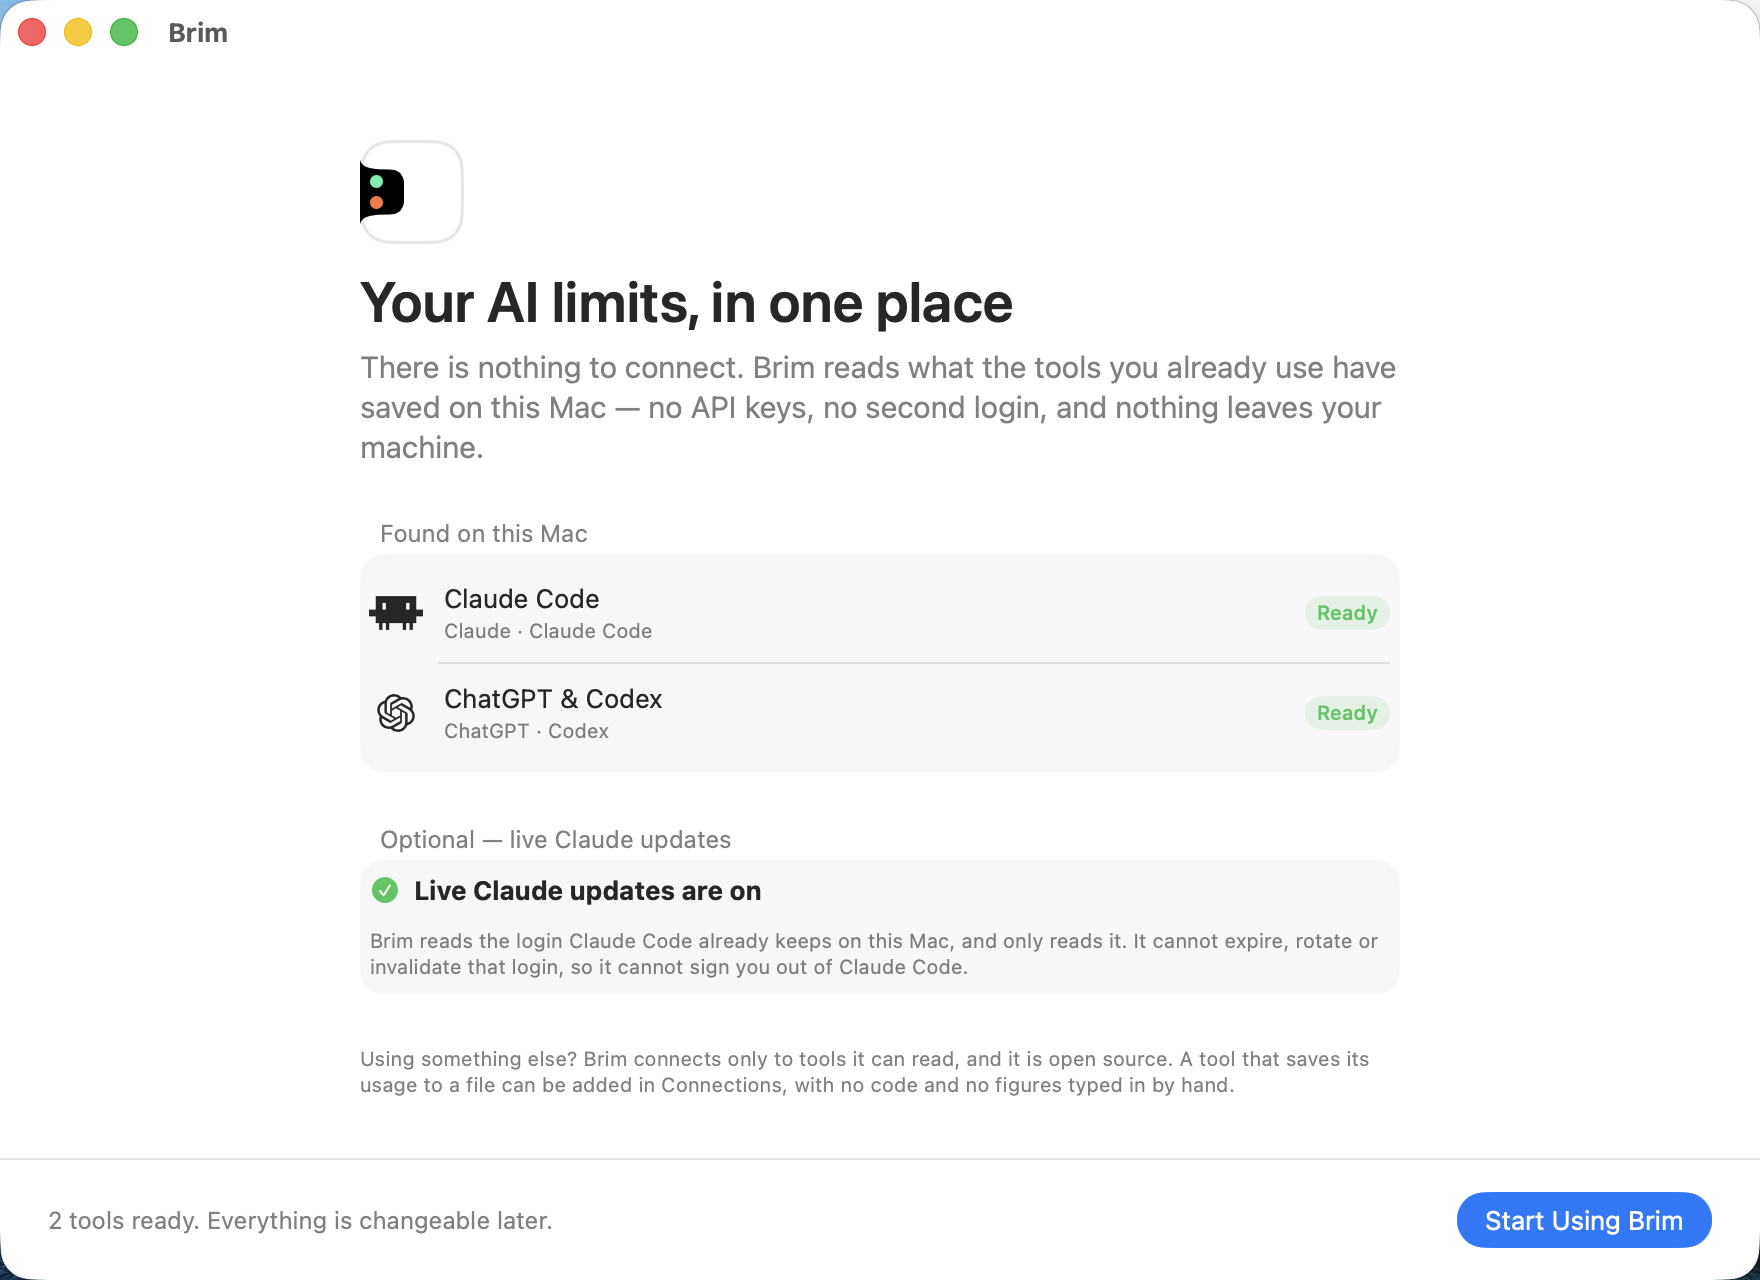
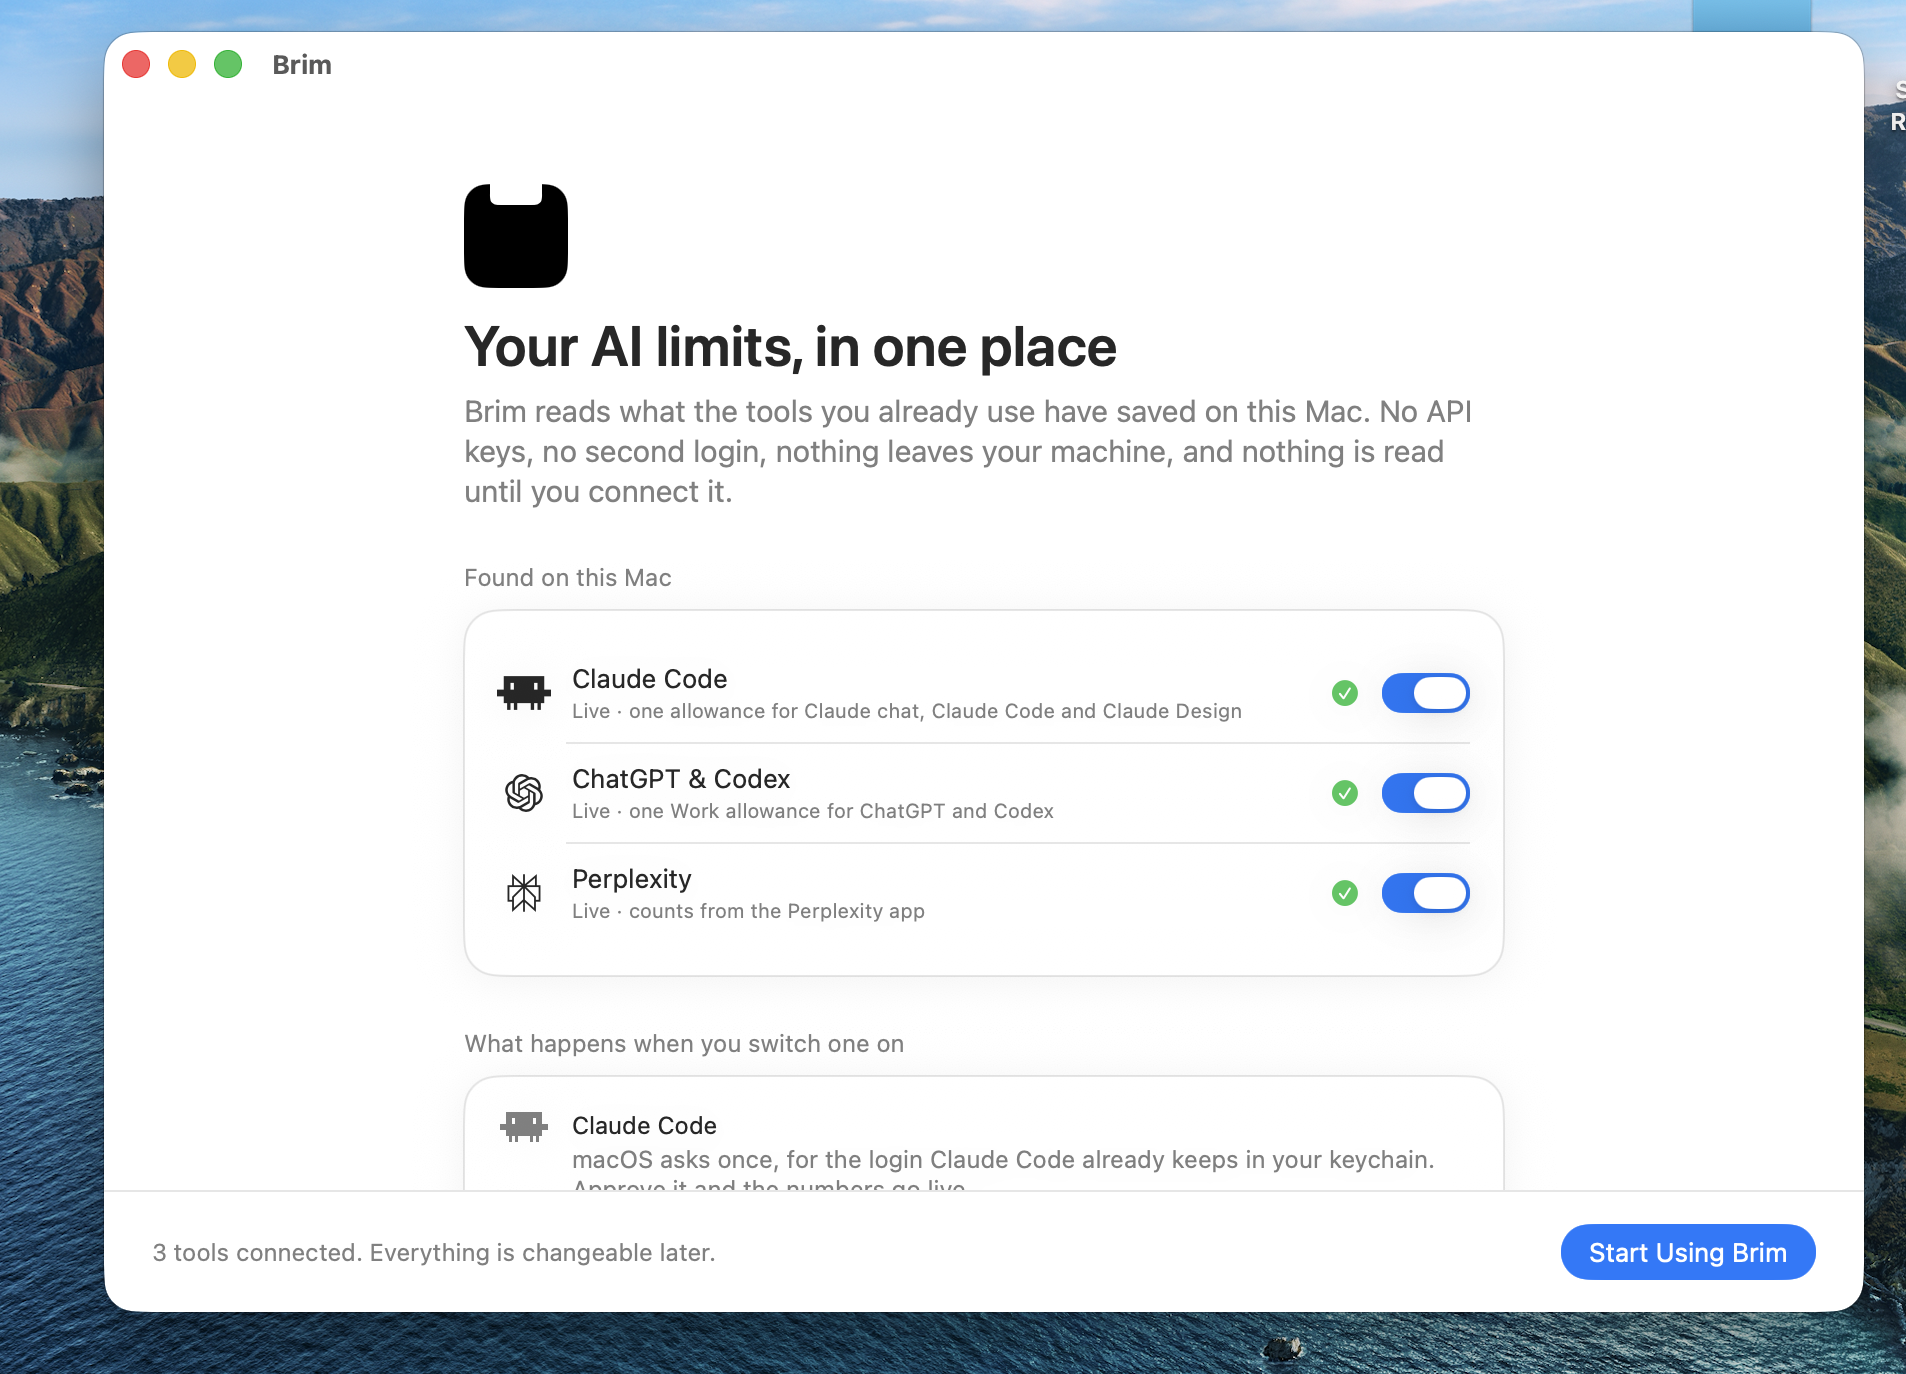
Say "3 tools connected", not the markup that was meant to produce it
The first-run footer read `^[3 tool](inflect: true) connected.` on screen. That is
automatic grammar agreement markup, and it is only resolved for a localised key; this
is a plain String handed to `Text(_: String)`, which renders it literally. So the very
first sentence anyone saw of Brim was its own source. Spelled out by hand instead,
where nothing can quietly stop resolving it.

The screenshot in the README is retaken against 1.4.0. The old one predated Perplexity
as a third tool, so it showed two rows and claimed "2 tools ready", and it predated the
Claude ring being named for the allowance it actually measures.

`--render-welcome` is fixed as far as it goes: it forces light so the image cannot come
out in whatever appearance the machine running it happens to use, it sizes the canvas to
the screen as it is now rather than cropping the top off the app mark, and it can force
the account poll past the refresh backoff, which a second process against the same saved
state always trips. It still cannot photograph a settled screen — the sign-in
subprocesses never report back in that process, whatever it waits — so this screenshot
was taken from the running app.

diff --git a/Sources/Brim/App.swift b/Sources/Brim/App.swift
@@ -361,20 +361,46 @@ final class AppDelegate: NSObject, NSApplicationDelegate, NSMenuDelegate {
     /// placeholder where every switch should be, which makes the render useless for
     /// judging the screen. A real view in a real window draws real controls.
     private func renderWelcome(into path: String) {
+        // Screenshots are documentation, so they have to come out the same whoever runs
+        // this and whatever their Mac is set to. Light, always: the rest of the images
+        // in Docs/Screenshots are light, and a set that switches appearance halfway
+        // down the README reads as two different apps.
+        NSApp.appearance = NSAppearance(named: .aqua)
+        // The render path returns before the normal launch finishes, so the process
+        // never got an activation policy. Without one the sign-in subprocesses never
+        // report back and every row stays on "Checking…" however long this waits.
+        NSApp.setActivationPolicy(.accessory)
+        // And started, so the rows have resolved. Rendering the view on its own catches
+        // every tool mid-check, which puts three spinners and "Checking…" in the one
+        // image that is meant to show what Brim found.
+        store.start()
+        // Past the backoff. `start` alone leaves the rows mid-check forever here.
+        store.pollAccounts(force: true)
         let view = NSHostingView(rootView: OnboardingView(store: store) {}.flattened)
         // Sized explicitly. A hosting view's `fittingSize` is no use here: measured off
         // the frame it answers at its own ideal width and clips, and measured off a
         // width constraint it runs away to tens of thousands of points. The screen is
         // a fixed-size illustration either way, so the size is simply stated.
-        let size = NSSize(width: 880, height: 1000)
+        // Tall enough for the whole screen. The onboarding has grown a third tool row,
+        // the note on what switching one on does, and the approval preview, and a canvas
+        // shorter than its contents does not scroll, it crops — off the top, which is
+        // where the app mark is, so the mark lost the white notch that makes it a mark
+        // at all and the screenshot showed a black tile.
+        let size = NSSize(width: 880, height: 1180)
         view.frame = NSRect(origin: .zero, size: size)
         let window = NSWindow(contentRect: NSRect(origin: .zero, size: size), styleMask: [.borderless],
                               backing: .buffered, defer: false)
         window.contentView = view
         view.layoutSubtreeIfNeeded()
-        // One turn of the run loop, so the hosting view has actually drawn before it
-        // is asked for its bitmap.
-        DispatchQueue.main.async {
+        // Long enough for the sign-in checks and the first readings to land. One turn of
+        // the run loop only guarantees the view has drawn, which it does before any of
+        // them have answered.
+        // The sign-in checks are subprocesses with a ten second timeout of their own,
+        // and the Codex poll stands aside while Claude's is in flight, so anything
+        // shorter photographs the screen mid-check: three toggles on and two rows still
+        // saying "Checking…", which is the one thing this image must not show.
+        DispatchQueue.main.asyncAfter(deadline: .now() + 8.0) {
+            view.layoutSubtreeIfNeeded()
             guard let rep = view.bitmapImageRepForCachingDisplay(in: view.bounds) else { exit(1) }
             view.cacheDisplay(in: view.bounds, to: rep)
             guard let data = rep.representation(using: .png, properties: [:]) else { exit(1) }

diff --git a/Sources/Brim/OnboardingView.swift b/Sources/Brim/OnboardingView.swift
@@ -82,7 +82,11 @@ struct OnboardingView: View {
         if states.contains(where: { $0.status == .checking }) { return "Checking what’s signed in on this Mac…" }
         let ready = states.filter(\.isConnected).count
         guard ready < found.count else {
-            return "^[\(ready) tool](inflect: true) connected. Everything is changeable later."
+            // Spelled out rather than left to `^[...](inflect: true)`. That markup is
+            // only resolved for a localised key, and this is a plain String rendered
+            // by `Text(_: String)`, which treats it as literal — so the first thing
+            // anyone saw on first run was the markup itself.
+            return "\(ready) tool\(ready == 1 ? "" : "s") connected. Everything is changeable later."
         }
         return "\(ready) of \(found.count) connected. The rest can be finished here or in Connections."
     }

diff --git a/Sources/Brim/UsageStore.swift b/Sources/Brim/UsageStore.swift
@@ -477,7 +477,11 @@ final class UsageStore: ObservableObject {
         }
     }
 
-    private func pollAccounts(force: Bool) {
+    /// Asks each connected account where it stands. `force` skips the refresh policy,
+    /// which the screenshot renderer needs: it runs as a second process against the same
+    /// saved state, so the backoff sees an attempt the real app made seconds ago and
+    /// declines, and every row stays on "Checking…" however long the renderer waits.
+    func pollAccounts(force: Bool) {
         // Sign-out has to surface even when usage polling is backed off or disabled.
         if isConnected(.claudeCode),
            force || refreshPolicy.shouldAttempt(refreshState(.claudeCode), lastActivity: lastActivity, now: now) {
